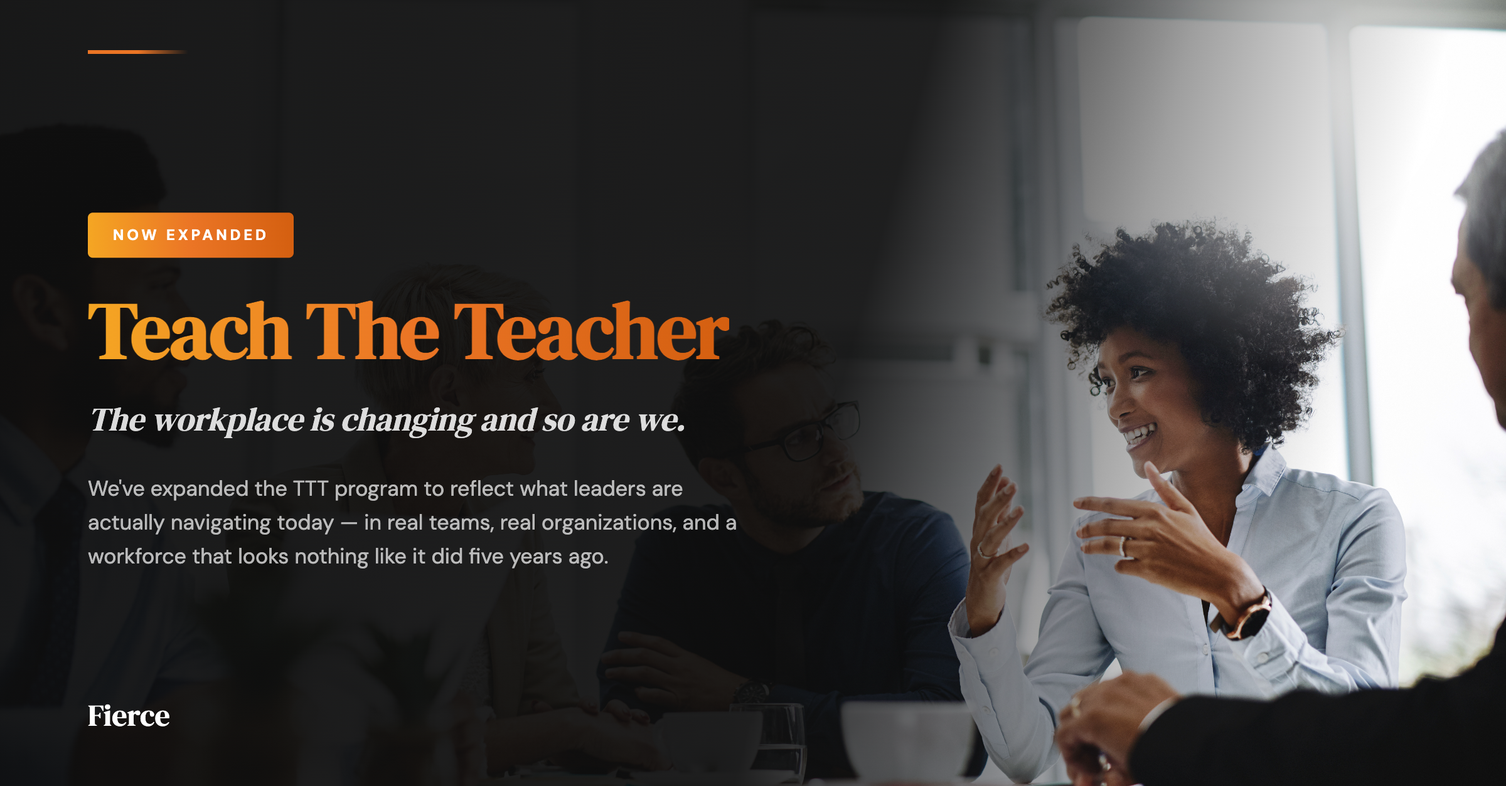
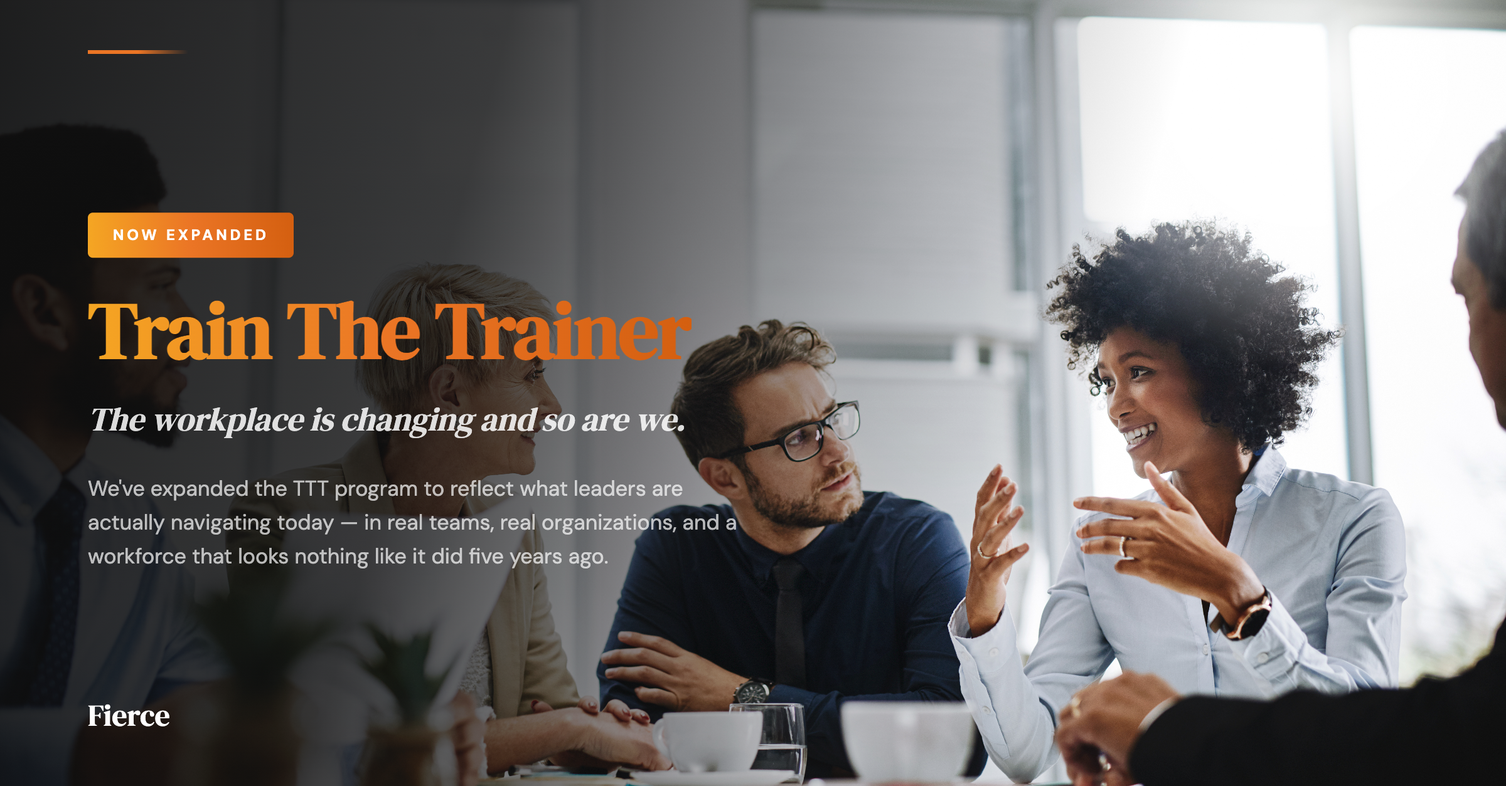
Update Train The Trainer graphics
- Renamed from Teach The Teacher to Train The Trainer
- Adjusted overlay opacity for better text readability
- Removed Fierce logo from newsletter banner
- Made photo more visible on LinkedIn square

diff --git a/ttt-graphics.html b/ttt-graphics.html
@@ -3,7 +3,7 @@
 <head>
     <meta charset="UTF-8">
     <meta name="viewport" content="width=device-width, initial-scale=1.0">
-    <title>Teach The Teacher Graphics - Fierce</title>
+    <title>Train The Trainer Graphics - Fierce</title>
     <link rel="preconnect" href="https://fonts.googleapis.com">
     <link rel="preconnect" href="https://fonts.gstatic.com" crossorigin>
     <link href="https://fonts.googleapis.com/css2?family=DM+Sans:wght@400;500;600;700&family=DM+Serif+Display&display=swap" rel="stylesheet">
@@ -68,7 +68,7 @@
             left: 0;
             width: 100%;
             height: 100%;
-            background: linear-gradient(105deg, rgba(14, 14, 14, 0.95) 0%, rgba(14, 14, 14, 0.92) 55%, rgba(14, 14, 14, 0.4) 70%, transparent 85%);
+            background: linear-gradient(105deg, rgba(14, 14, 14, 0.92) 0%, rgba(14, 14, 14, 0.8) 30%, rgba(14, 14, 14, 0.25) 55%, transparent 70%);
             z-index: 1;
         }
 
@@ -185,7 +185,7 @@
             left: 0;
             width: 100%;
             height: 100%;
-            background: linear-gradient(100deg, rgba(14, 14, 14, 0.95) 0%, rgba(14, 14, 14, 0.9) 50%, rgba(14, 14, 14, 0.3) 75%, transparent 90%);
+            background: linear-gradient(100deg, rgba(14, 14, 14, 0.92) 0%, rgba(14, 14, 14, 0.8) 35%, rgba(14, 14, 14, 0.2) 60%, transparent 75%);
             z-index: 1;
         }
 
@@ -281,7 +281,7 @@
             left: 0;
             width: 100%;
             height: 100%;
-            background: linear-gradient(180deg, rgba(14, 14, 14, 0.4) 0%, rgba(14, 14, 14, 0.85) 50%, rgba(14, 14, 14, 0.98) 100%);
+            background: linear-gradient(180deg, rgba(14, 14, 14, 0.05) 0%, rgba(14, 14, 14, 0.15) 35%, rgba(14, 14, 14, 0.6) 55%, rgba(14, 14, 14, 0.92) 70%, rgba(14, 14, 14, 0.97) 100%);
             z-index: 1;
         }
 
@@ -395,7 +395,7 @@
             <div class="content">
                 <div class="tag">Now Expanded</div>
                 <h1 class="headline">
-                    <span class="gradient">Teach The Teacher</span>
+                    <span class="gradient">Train The Trainer</span>
                 </h1>
                 <p class="subhead">The workplace is changing and so are we.</p>
                 <p class="description">We've expanded the TTT program to reflect what leaders are actually navigating today — in real teams, real organizations, and a workforce that looks nothing like it did five years ago.</p>
@@ -420,12 +420,10 @@
 
             <div class="content">
                 <h1 class="headline">
-                    <span class="gradient">Teach The Teacher</span><br>
+                    <span class="gradient">Train The Trainer</span><br>
                     <span class="white" style="font-size: 20px;">The workplace is changing and so are we.</span>
                 </h1>
             </div>
-
-            <div class="logo">Fierce</div>
         </div>
         <p class="dimensions">600 x 200px</p>
     </div>
@@ -447,7 +445,7 @@
             <div class="content">
                 <div class="tag">Now Expanded</div>
                 <h1 class="headline">
-                    <span class="gradient">Teach The Teacher</span>
+                    <span class="gradient">Train The Trainer</span>
                 </h1>
                 <p class="subhead">The workplace is changing and so are we.</p>
                 <p class="description">We've expanded the TTT program to reflect what leaders are actually navigating today — in real teams, real organizations, and a workforce that looks nothing like it did five years ago.</p>
